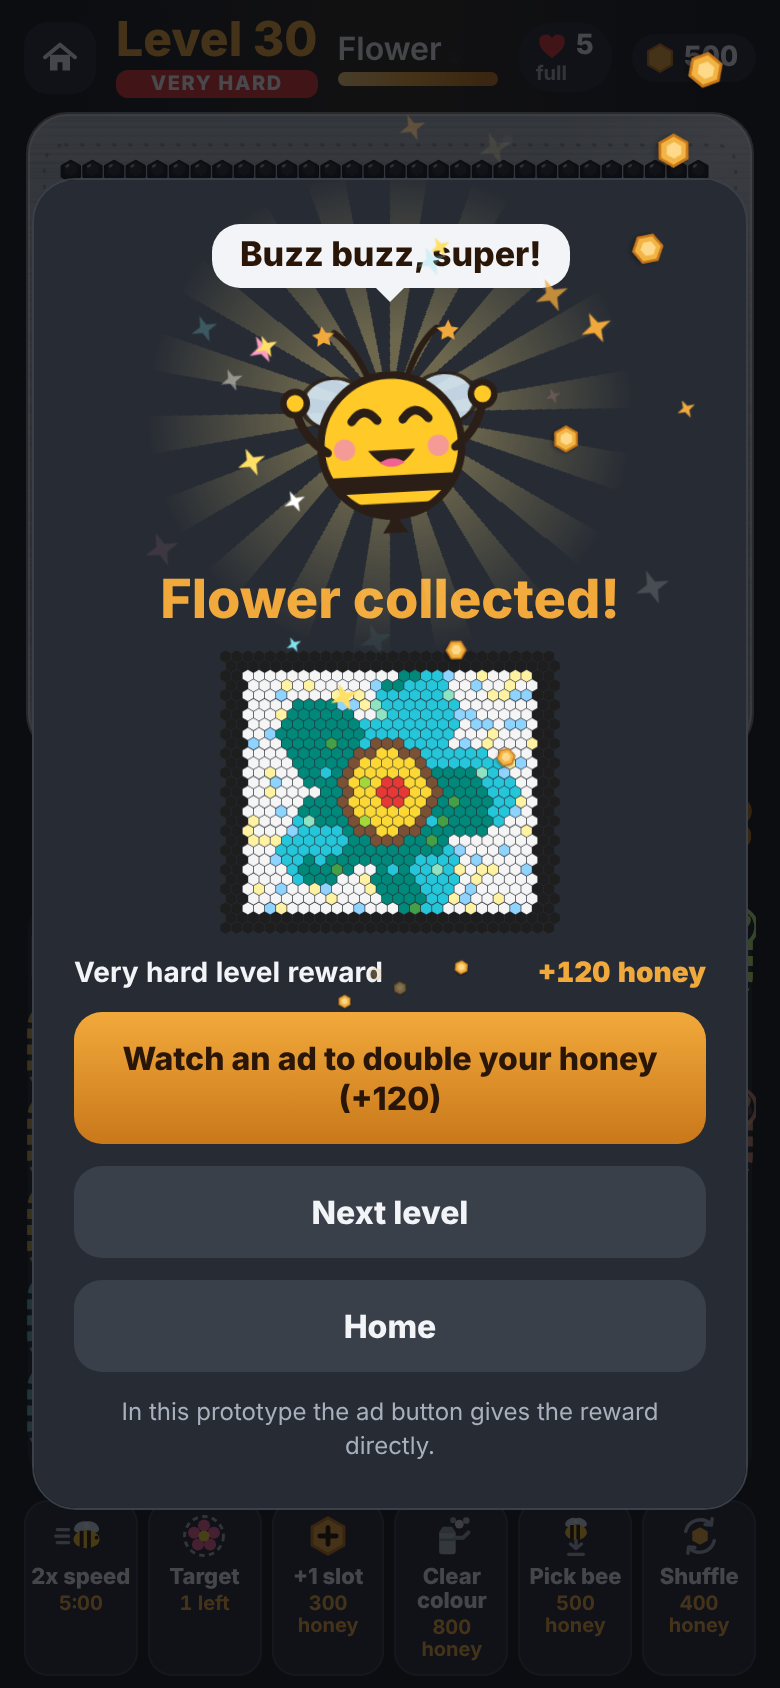
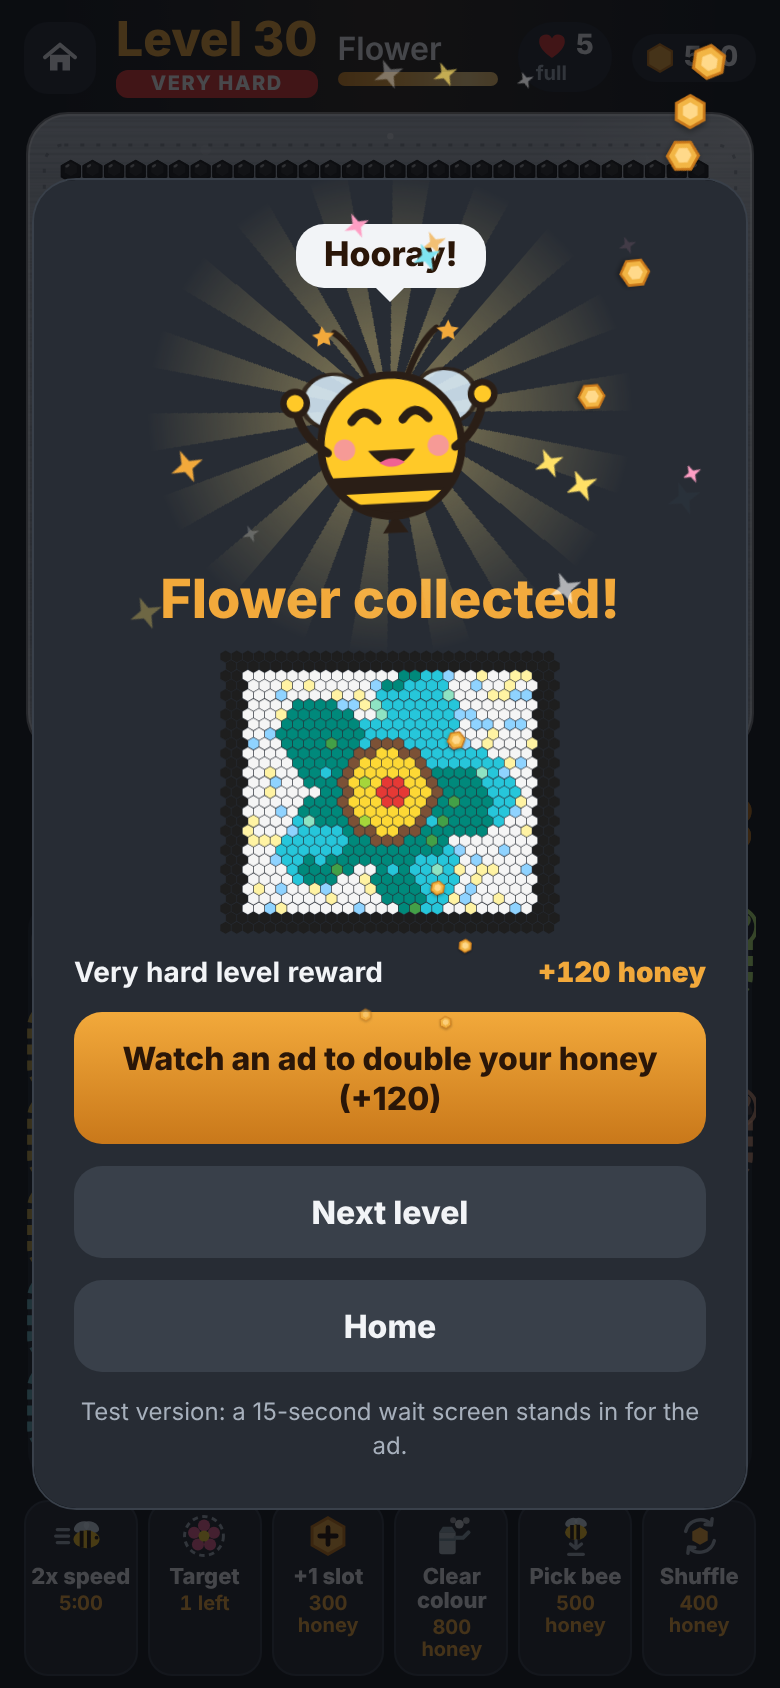
Add itch.io page link, refresh win screenshot
Claude-Session: https://claude.ai/code/session_01XLS1L3NeDfwYJEuvzdGrcG

diff --git a/README.md b/README.md
@@ -6,6 +6,8 @@ Arılarla renkli petekleri dıştan içe toplayıp resmi tamamladığın bir bul
 **Oyna / Play:** https://mehmetustattsc.github.io/puzzle-game/
 (Telefonda "Ana ekrana ekle" ile uygulama gibi kurulur, internetsiz de çalışır.)
 
+**itch.io:** https://mehmet-usta.itch.io/hive-master
+
 ## Durum
 Web prototipi, test aşaması. Sonraki adımlar: oyuncu testleri ve D1/D7 ölçümü → Android (Capacitor) + AdMob + Google Play Billing → Impressum / gizlilik → soft launch.
 
